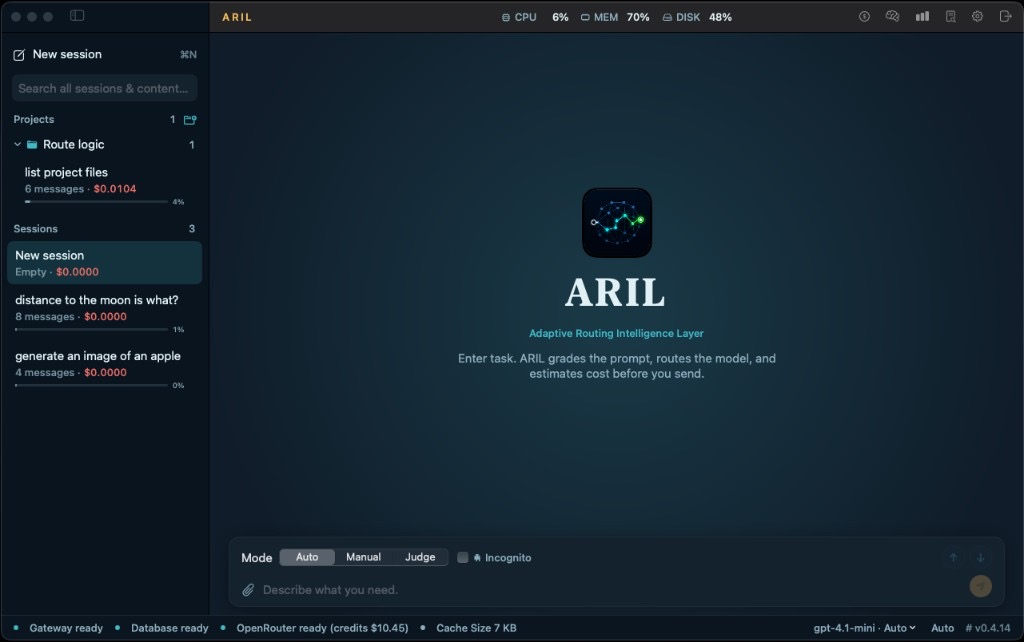
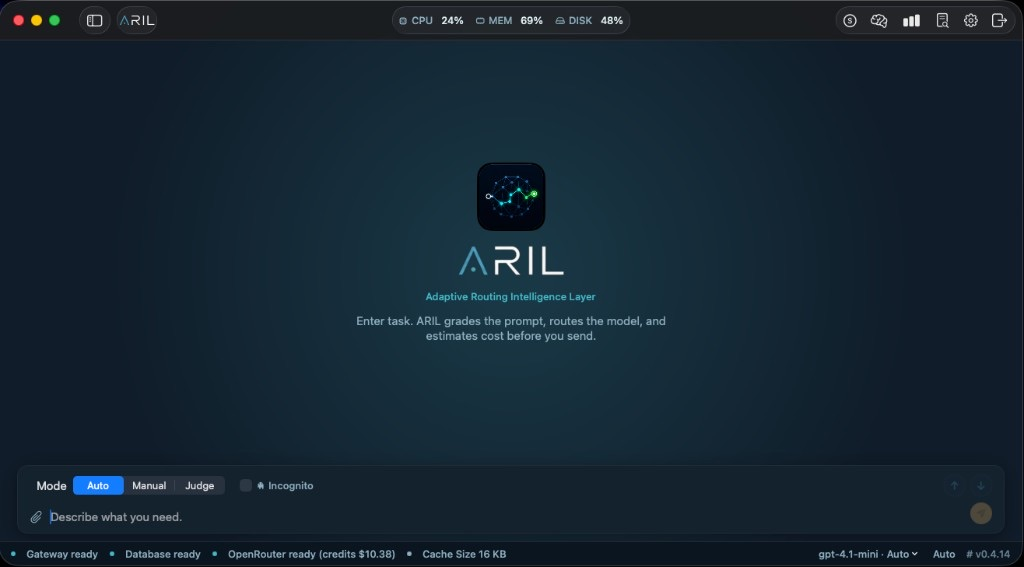
Hide the duplicate ARIL title when the sidebar collapses, and refresh the site hero screenshot.

diff --git a/apps/macos/ARIL/Views/ARILTitleWordmarkView.swift b/apps/macos/ARIL/Views/ARILTitleWordmarkView.swift
@@ -149,7 +149,26 @@ private enum FlourishKind: CaseIterable {
 }
 
 /// Hides the native window title string so the custom wordmark can own that spot.
-struct WindowTitleVisibilityHidden: NSViewRepresentable {
+enum WindowTitleHiding {
+    static func hide(in window: NSWindow?) {
+        guard let window else { return }
+        if window.titleVisibility != .hidden {
+            window.titleVisibility = .hidden
+        }
+        if !window.title.isEmpty {
+            window.title = ""
+        }
+        if window.subtitle.isEmpty == false {
+            window.subtitle = ""
+        }
+    }
+}
+
+/// Re-applies title hiding when `refreshToken` changes (e.g. sidebar collapse), because
+/// macOS often resurfaces the bundle name (“ARIL”) beside toolbar items.
+struct WindowTitleVisibilityHidden<Token: Equatable>: NSViewRepresentable {
+    var refreshToken: Token
+
     func makeCoordinator() -> Coordinator {
         Coordinator()
     }
@@ -162,19 +181,26 @@ struct WindowTitleVisibilityHidden: NSViewRepresentable {
 
     func updateNSView(_ nsView: NSView, context: Context) {
         context.coordinator.attach(to: nsView)
+        WindowTitleHiding.hide(in: nsView.window ?? NSApp.keyWindow)
     }
 
     final class Coordinator {
         private var observers: [NSObjectProtocol] = []
+        private var titleObservation: NSKeyValueObservation?
         private weak var window: NSWindow?
 
         func attach(to view: NSView) {
             DispatchQueue.main.async { [weak self, weak view] in
                 guard let self, let view else { return }
-                self.apply(to: view.window)
+                WindowTitleHiding.hide(in: view.window)
                 guard let window = view.window, window !== self.window else { return }
                 self.teardown()
                 self.window = window
+                self.titleObservation = window.observe(\.title, options: [.new]) { win, _ in
+                    if !win.title.isEmpty {
+                        WindowTitleHiding.hide(in: win)
+                    }
+                }
                 let center = NotificationCenter.default
                 for name in [
                     NSWindow.didBecomeKeyNotification,
@@ -184,8 +210,8 @@ struct WindowTitleVisibilityHidden: NSViewRepresentable {
                         forName: name,
                         object: window,
                         queue: .main
-                    ) { [weak self] _ in
-                        self?.apply(to: window)
+                    ) { _ in
+                        WindowTitleHiding.hide(in: window)
                     }
                     self.observers.append(token)
                 }
@@ -198,18 +224,9 @@ struct WindowTitleVisibilityHidden: NSViewRepresentable {
                 center.removeObserver(token)
             }
             observers.removeAll()
+            titleObservation?.invalidate()
+            titleObservation = nil
             window = nil
-        }
-
-        private func apply(to window: NSWindow?) {
-            guard let window else { return }
-            // Empty title + hidden visibility prevents a second "ARIL" next to the wordmark.
-            if window.titleVisibility != .hidden {
-                window.titleVisibility = .hidden
-            }
-            if !window.title.isEmpty {
-                window.title = ""
-            }
         }
 
         deinit {

diff --git a/website/index.html b/website/index.html
@@ -23,15 +23,15 @@
   <meta property="og:image:secure_url" content="https://aril.host/assets/screenshots/home.jpg">
   <meta property="og:image:type" content="image/jpeg">
   <meta property="og:image:width" content="1024">
-  <meta property="og:image:height" content="642">
-  <meta property="og:image:alt" content="ARIL 0.4.14 home screen with Projects sidebar and empty session hero">
+  <meta property="og:image:height" content="567">
+  <meta property="og:image:alt" content="ARIL 0.4.14 empty session hero with Adaptive Routing Intelligence Layer branding">
 
   <!-- Twitter / X -->
   <meta name="twitter:card" content="summary_large_image">
   <meta name="twitter:title" content="ARIL — Adaptive Routing Intelligence Layer">
   <meta name="twitter:description" content="Native macOS AI chat with smart OpenRouter routing, cost transparency, and local guardrails.">
   <meta name="twitter:image" content="https://aril.host/assets/screenshots/home.jpg">
-  <meta name="twitter:image:alt" content="ARIL 0.4.14 home screen with Projects sidebar and empty session hero">
+  <meta name="twitter:image:alt" content="ARIL 0.4.14 empty session hero with Adaptive Routing Intelligence Layer branding">
 
   <link rel="icon" href="/assets/logo.png" type="image/png" sizes="256x256">
   <link rel="apple-touch-icon" href="/assets/logo.png">
@@ -147,7 +147,7 @@
           </p>
         </div>
         <figure class="hero-shot">
-          <img src="/assets/screenshots/home.jpg?v=0414" alt="ARIL 0.4.14 home screen with Projects sidebar and empty session hero" width="1024" height="642" loading="eager">
+          <img src="/assets/screenshots/home.jpg?v=0414f" alt="ARIL 0.4.14 empty session hero with Adaptive Routing Intelligence Layer branding" width="1024" height="567" loading="eager">
         </figure>
       </div>
     </section>

diff --git a/apps/macos/ARIL/Views/ContentView.swift b/apps/macos/ARIL/Views/ContentView.swift
@@ -13,6 +13,9 @@ struct ContentView: View {
             HStack(spacing: 0) {
                 NavigationSplitView(columnVisibility: $columnVisibility) {
                     SidebarView()
+                        // Empty title — otherwise collapsing the sidebar surfaces the
+                        // bundle name (“ARIL”) next to the custom wordmark.
+                        .navigationTitle("")
                         .navigationSplitViewColumnWidth(min: 220, ideal: 260, max: 320)
                 } detail: {
                     VStack(spacing: 0) {
@@ -37,6 +40,7 @@ struct ContentView: View {
 
                         ChatDetailView()
                     }
+                    .navigationTitle("")
                 }
                 .frame(maxWidth: .infinity, maxHeight: .infinity)
 
@@ -51,11 +55,14 @@ struct ContentView: View {
             StatusFooterView()
         }
         .background(theme.palette.background)
-        .background(WindowTitleVisibilityHidden())
+        .background(WindowTitleVisibilityHidden(refreshToken: columnVisibility))
         .font(theme.bodyFont)
         .animation(.easeInOut(duration: 0.22), value: state.activeToolPanel)
         .animation(.easeInOut(duration: 0.15), value: theme.fontSize)
         .animation(.easeInOut(duration: 0.15), value: theme.fontFamily)
+        .onChange(of: columnVisibility) { _, _ in
+            WindowTitleHiding.hide(in: NSApp.keyWindow)
+        }
         .toolbar {
             ToolbarItem(placement: .navigation) {
                 ARILTitleWordmarkView()
